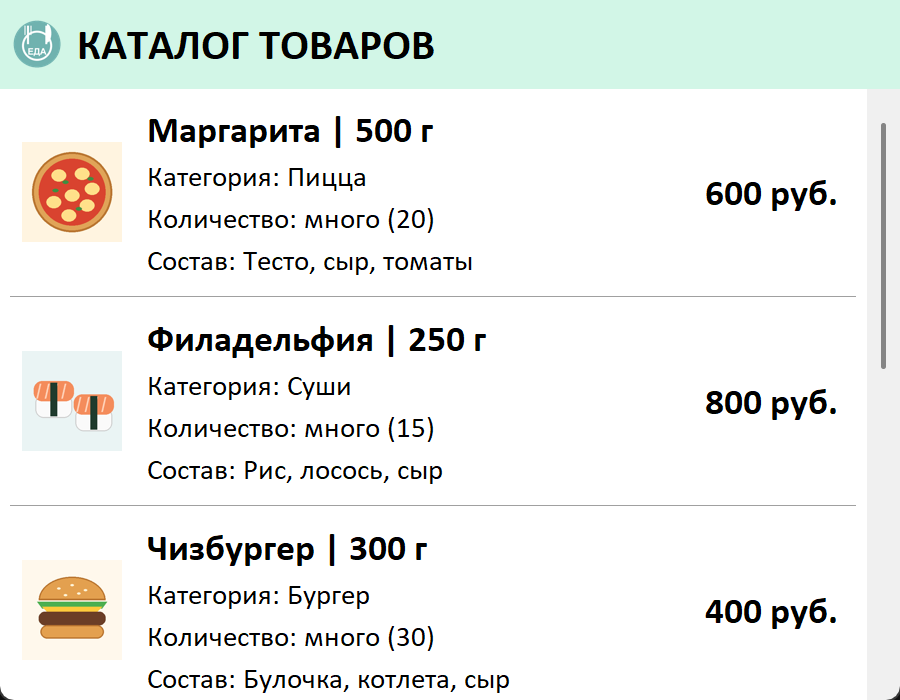
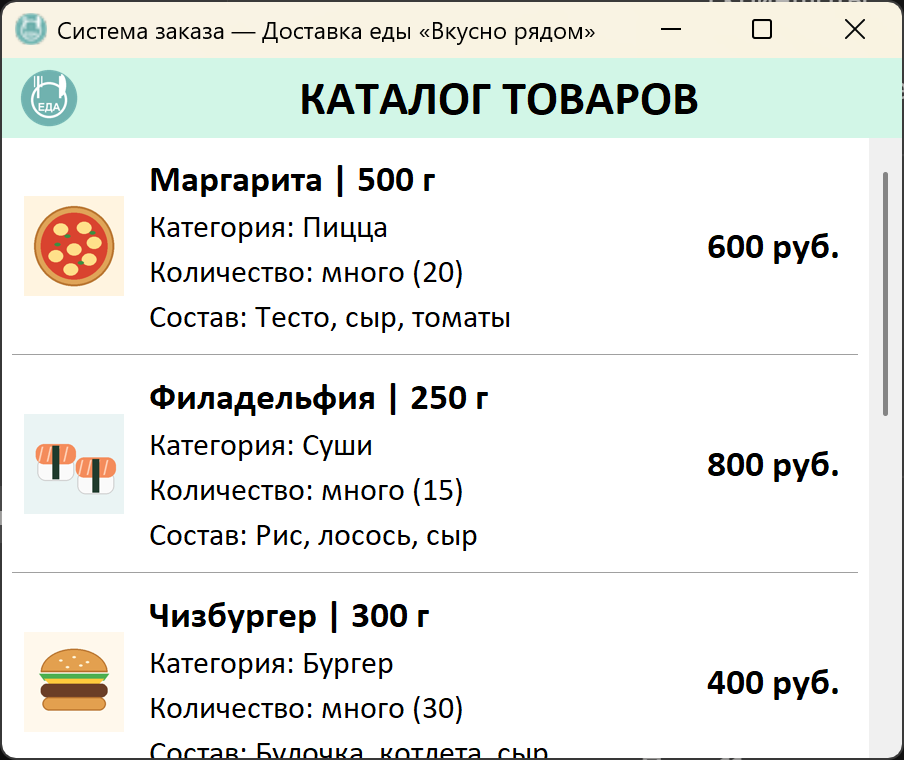
Пара 11: ресурсы, шрифт Calibri, цвета по КИМ

diff --git a/catalog.py b/catalog.py
@@ -2,11 +2,13 @@
 import tkinter as tk
 from tkinter import ttk
 from datetime import datetime
-from PIL import Image, ImageTk
-import os
 
-from config import (DB_PATH, COLOR_HIGHLIGHT, FONT_FAMILY,
-                    RESOURCES_DIR, PLACEHOLDER_IMAGE)
+from styles import (
+    COLOR_MAIN_BG, COLOR_HIGHLIGHT,
+    FONT_SIZE_NORMAL, FONT_SIZE_HEADER,
+    font
+)
+from resources import get_product_image
 from discount import calculate_price_with_discount
 import database as db
 
@@ -21,7 +23,7 @@ def create_product_card(parent, product):
     """
     # Определяем фон: подсветка, если количество ≤3
     qty = product[5]
-    bg_color = COLOR_HIGHLIGHT if qty <= 3 else "white"
+    bg_color = COLOR_HIGHLIGHT if qty <= 3 else COLOR_MAIN_BG
 
     # Карточка без рамки, снизу — разделитель (вариант 2 макета)
     card = tk.Frame(parent, bg=bg_color)
@@ -32,18 +34,13 @@ def create_product_card(parent, product):
     img_frame = tk.Frame(card, bg=bg_color)
     img_frame.pack(side="left", padx=10, pady=10)
 
-    image_path = os.path.join(RESOURCES_DIR, product[6]) if product[6] else PLACEHOLDER_IMAGE
-    if not os.path.exists(image_path):
-        image_path = PLACEHOLDER_IMAGE
-
-    try:
-        img = Image.open(image_path).resize((100, 100))
-        photo = ImageTk.PhotoImage(img)
+    photo = get_product_image(product[6], size=(100, 100))
+    if photo:
         img_label = tk.Label(img_frame, image=photo, bg=bg_color)
         img_label.image = photo   # сохраняем ссылку!
         img_label.pack()
-    except Exception:
-        tk.Label(img_frame, text="[ФОТО]", bg=bg_color,
+    else:
+        tk.Label(img_frame, text="[НЕТ ФОТО]", bg=bg_color,
                  width=10, height=5).pack()
 
     # === Цена (справа) ===
@@ -53,10 +50,11 @@ def create_product_card(parent, product):
     price_frame.pack(side="right", padx=15, pady=10)
     if new_price != price:
         # старая цена зачёркнута, новая — со скидкой
+        old_font = font(FONT_SIZE_NORMAL) + ("overstrike",)
         tk.Label(price_frame, text=f"{price:g} руб.", fg="red",
-                 font=(FONT_FAMILY, 11, "overstrike"), bg=bg_color).pack(anchor="e")
+                 font=old_font, bg=bg_color).pack(anchor="e")
     tk.Label(price_frame, text=f"{new_price:g} руб.",
-             font=(FONT_FAMILY, 14, "bold"), bg=bg_color).pack(anchor="e")
+             font=font(FONT_SIZE_HEADER, bold=True), bg=bg_color).pack(anchor="e")
 
     # === Текстовая часть (между фото и ценой) ===
     text_frame = tk.Frame(card, bg=bg_color)
@@ -64,20 +62,17 @@ def create_product_card(parent, product):
 
     # Название | вес (поля «Производство» в варианте 4 нет)
     title = f"{product[2]} | {product[3]} г"
-    tk.Label(text_frame, text=title, font=(FONT_FAMILY, 14, "bold"),
+    tk.Label(text_frame, text=title, font=font(FONT_SIZE_HEADER, bold=True),
              bg=bg_color, anchor="w").pack(fill="x")
 
-    # Категория
     tk.Label(text_frame, text=f"Категория: {product[1]}",
-             font=(FONT_FAMILY, 11), bg=bg_color, anchor="w").pack(fill="x")
+             font=font(FONT_SIZE_NORMAL), bg=bg_color, anchor="w").pack(fill="x")
 
-    # Количество
     indicator = "много" if qty > 5 else "мало"
     tk.Label(text_frame, text=f"Количество: {indicator} ({qty})",
-             font=(FONT_FAMILY, 11), bg=bg_color, anchor="w").pack(fill="x")
+             font=font(FONT_SIZE_NORMAL), bg=bg_color, anchor="w").pack(fill="x")
 
-    # Состав
     tk.Label(text_frame, text=f"Состав: {product[7]}",
-             font=(FONT_FAMILY, 11), bg=bg_color, anchor="w").pack(fill="x")
+             font=font(FONT_SIZE_NORMAL), bg=bg_color, anchor="w").pack(fill="x")
 
     return card

diff --git a/main_catalog.py b/main_catalog.py
@@ -1,10 +1,29 @@
-"""Главное окно приложения с каталогом."""
+"""Главное окно с каталогом."""
+import os
 import tkinter as tk
 from tkinter import ttk
-from PIL import Image, ImageTk
-from config import APP_TITLE, FONT_FAMILY, COLOR_SECONDARY
+
+from styles import COLOR_MAIN_BG, COLOR_SECONDARY_BG, FONT_SIZE_TITLE, font
+from config import APP_TITLE
 import database as db
 from catalog import create_product_card
+from resources import load_image_proportional, PATH_LOGO, PATH_ICON
+
+
+def set_app_icon(root, icon_path):
+    """Устанавливает иконку приложения кроссплатформенно."""
+    try:
+        if os.name == "nt":   # Windows
+            if os.path.exists(icon_path):
+                root.iconbitmap(icon_path)
+        else:                  # Linux/Mac
+            png_path = icon_path.replace(".ico", ".png")
+            icon_img = load_image_proportional(png_path, max_size=(32, 32))
+            if icon_img:
+                root.iconphoto(True, icon_img)
+                root._icon_photo = icon_img   # сохраняем ссылку
+    except Exception as e:
+        print(f"Не удалось установить иконку: {e}")
 
 
 class CatalogWindow:
@@ -12,36 +31,40 @@ class CatalogWindow:
         self.root = tk.Tk()
         self.root.title(APP_TITLE)
         self.root.geometry("900x700")
-        try:
-            self.root.iconbitmap("resources/icon.ico")
-        except tk.TclError:
-            pass
+        self.root.configure(bg=COLOR_MAIN_BG)
+
+        # Иконка приложения
+        set_app_icon(self.root, PATH_ICON)
 
         self.build_ui()
         self.load_products()
 
     def build_ui(self):
-        # Заголовок
-        header = tk.Frame(self.root, bg=COLOR_SECONDARY)
+        # Шапка с логотипом и заголовком
+        header = tk.Frame(self.root, bg=COLOR_SECONDARY_BG, height=80)
         header.pack(fill="x")
+        header.pack_propagate(False)
 
-        # Логотип слева в шапке
-        try:
-            logo = Image.open("resources/logo.png").resize((50, 50))
-            self.logo_photo = ImageTk.PhotoImage(logo)   # ссылка, чтобы не удалил сборщик мусора
-            tk.Label(header, image=self.logo_photo, bg=COLOR_SECONDARY).pack(side="left", padx=10, pady=5)
-        except OSError:
-            pass
+        # Логотип (слева) — с сохранением пропорций!
+        logo = load_image_proportional(PATH_LOGO, max_size=(60, 60))
+        if logo:
+            self.logo_label = tk.Label(header, image=logo, bg=COLOR_SECONDARY_BG)
+            self.logo_label.image = logo
+            self.logo_label.pack(side="left", padx=15)
+        else:
+            tk.Label(header, text="[ЛОГОТИП]",
+                     bg=COLOR_SECONDARY_BG).pack(side="left", padx=15)
 
+        # Заголовок (по центру)
         tk.Label(header, text="КАТАЛОГ ТОВАРОВ",
-                 font=(FONT_FAMILY, 16, "bold"),
-                 bg=COLOR_SECONDARY).pack(side="left", pady=15)
+                 font=font(FONT_SIZE_TITLE, bold=True),
+                 bg=COLOR_SECONDARY_BG).pack(expand=True)
 
         # Область с прокруткой
-        self.canvas = tk.Canvas(self.root, bg="white", highlightthickness=0)
+        self.canvas = tk.Canvas(self.root, bg=COLOR_MAIN_BG, highlightthickness=0)
         scrollbar = ttk.Scrollbar(self.root, orient="vertical",
                                   command=self.canvas.yview)
-        self.catalog_frame = tk.Frame(self.canvas, bg="white")
+        self.catalog_frame = tk.Frame(self.canvas, bg=COLOR_MAIN_BG)
         self.catalog_frame.bind(
             "<Configure>",
             lambda e: self.canvas.configure(scrollregion=self.canvas.bbox("all"))

diff --git a/resources.py b/resources.py
@@ -1,0 +1,65 @@
+"""Модуль работы с ресурсами."""
+import os
+from PIL import Image, ImageTk
+
+
+# Пути к ресурсам
+RESOURCES_DIR = "resources"
+PATH_PICTURE = "resources/picture.png"
+PATH_LOGO = "resources/logo.png"
+PATH_ICON = "resources/icon.ico"
+
+# Кэш изображений
+_image_cache = {}
+
+
+def load_image(path, size=(100, 100)):
+    """
+    Загружает изображение с указанным размером.
+
+    :param path: путь к файлу
+    :param size: (ширина, высота)
+    :return: ImageTk.PhotoImage или None
+    """
+    try:
+        if not os.path.exists(path):
+            return None
+        img = Image.open(path).resize(size)
+        return ImageTk.PhotoImage(img)
+    except Exception as e:
+        print(f"Ошибка загрузки {path}: {e}")
+        return None
+
+
+def load_image_proportional(path, max_size=(100, 100)):
+    """
+    Загружает изображение с сохранением пропорций.
+    Используется для логотипа.
+
+    :param path: путь к файлу
+    :param max_size: максимальные (ширина, высота)
+    :return: ImageTk.PhotoImage или None
+    """
+    try:
+        if not os.path.exists(path):
+            return None
+        img = Image.open(path)
+        img.thumbnail(max_size)   # сохраняет пропорции!
+        return ImageTk.PhotoImage(img)
+    except Exception as e:
+        print(f"Ошибка загрузки {path}: {e}")
+        return None
+
+
+def get_product_image(image_name, size=(100, 100)):
+    """
+    Возвращает картинку товара или заглушку.
+
+    :param image_name: имя файла из поля «фото» (вариант 4 хранит только имя)
+    :param size: (ширина, высота)
+    :return: ImageTk.PhotoImage
+    """
+    image_path = os.path.join(RESOURCES_DIR, image_name) if image_name else ""
+    if not image_path or not os.path.exists(image_path):
+        return load_image(PATH_PICTURE, size)
+    return load_image(image_path, size)

diff --git a/styles.py b/styles.py
@@ -1,0 +1,37 @@
+"""Стили приложения по руководству КИМ (Прил_3)."""
+import tkinter as tk
+
+
+# =========================================
+# Цвета из руководства по стилю
+# =========================================
+COLOR_MAIN_BG = "#FFFFFF"       # основной фон
+COLOR_SECONDARY_BG = "#D2F6E7"  # дополнительный фон
+COLOR_ACCENT = "#70B2AF"        # акцент
+COLOR_HIGHLIGHT = "#ff8080"     # подсветка ≤3
+
+# =========================================
+# Шрифт
+# =========================================
+FONT_FAMILY = "Calibri"
+FONT_SIZE_SMALL = 10
+FONT_SIZE_NORMAL = 12
+FONT_SIZE_HEADER = 14
+FONT_SIZE_TITLE = 18
+
+
+def font(size=FONT_SIZE_NORMAL, bold=False):
+    """Возвращает кортеж шрифта."""
+    return (FONT_FAMILY, size, "bold" if bold else "normal")
+
+
+def make_button(parent, text, command):
+    """Кнопка в стиле КИМ."""
+    return tk.Button(
+        parent, text=text, command=command,
+        bg=COLOR_ACCENT, fg="white",
+        font=font(FONT_SIZE_NORMAL),
+        relief="flat", padx=15, pady=5,
+        activebackground=COLOR_ACCENT,
+        cursor="hand2"
+    )

diff --git a/config.py b/config.py
@@ -3,14 +3,10 @@
 # Путь к БД (вариант 4)
 DB_PATH = "databases/db_variant_4.db"
 
-# Папка с картинками
-RESOURCES_DIR = "resources"
-PLACEHOLDER_IMAGE = "resources/picture.png"
+# Название компании-заказчика
+COMPANY_NAME = "Доставка еды «Вкусно рядом»"
 
-# Оформление (КИМ)
-APP_TITLE = "Доставка еды — каталог"
-FONT_FAMILY = "Calibri"
-COLOR_BG = "#FFFFFF"          # основной фон
-COLOR_SECONDARY = "#D2F6E7"   # дополнительный фон
-COLOR_ACCENT = "#70B2AF"      # акцент
-COLOR_HIGHLIGHT = "#ff8080"   # подсветка товаров с количеством ≤ 3
+# Заголовок приложения
+APP_TITLE = f"Система заказа — {COMPANY_NAME}"
+
+# Цвета, шрифт — в styles.py, пути к картинкам — в resources.py
